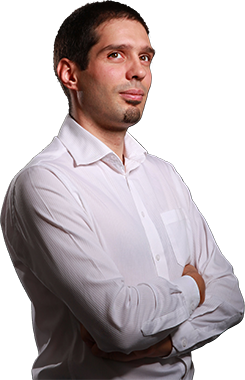
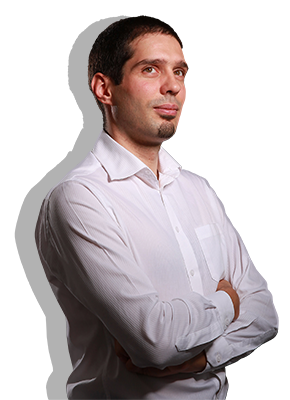
fix slider homepage

diff --git a/xebiaUI/elements/xuiShowcase/xuiShowcase.less b/xebiaUI/elements/xuiShowcase/xuiShowcase.less
@@ -2,16 +2,51 @@
 @import '../../styles/variables';
 
 .xuiShowcase{
+  background: url('../../../assets/images/home/background-paris-xebia-home.jpg');
+  height: 400px;
+
+  @media (max-width: @screen-phone) {
+    background-size: cover;
+    background-position: center center;
+    height: auto;
+    background-repeat: no-repeat;
+  }
+
+  @media (min-width: @screen-phone) and (max-width: @screen-tablet) {
+    background-size: cover;
+    background-position: center center;
+    height: auto;
+    background-repeat: no-repeat;
+  }
 
   .xuiShowcase-leftPanel {
-    padding: 30px 15px;
-    background-color: @xui-purple1;
+    padding: 40px 130px 40px 10px;
+    background-color: @xui-purple1-opacity;
+    height: 400px;
+
+    @media (max-width: @screen-phone) {
+      padding: 30px 15px;
+      height: auto;
+    }
+
+    @media (min-width: @screen-phone) and (max-width: @screen-tablet) {
+      padding: 60px 15px;
+      height: auto;
+    }
+
+    @media (max-width: 1200px) and (min-width: @screen-desktop) {
+      padding: 40px 90px 40px 10px;
+    }
 
     .xuiShowcase-title {
       .xui-display1;
       text-transform: uppercase;
       line-height: initial;
-      margin-bottom: 5px;
+      margin-bottom: 20px;
+
+      @media (max-width: @screen-phone) {
+        margin-bottom: 0px;
+      }
     }
 
     .xuiShowcase-mainDescription {
@@ -25,7 +60,6 @@
   }
 
   .xuiShowcase-rightPanel{
-    background-color: @xui-purple1;
     color: white;
   }
 

diff --git a/app/pages/home/home.less b/app/pages/home/home.less
@@ -6,8 +6,20 @@
   .home-showcase {
 
     .xuiShowcase-rightPanel {
-      background: url('../../../assets/images/home/background-paris-xebia-home.jpg');
-      height: 230px;
+
+      @media (max-width: @screen-phone) {
+        height: 260px;
+      }
+
+      @media (min-width: @screen-phone) and (max-width: @screen-tablet) {
+        height: 400px;
+      }
+
+      @media (min-width: @screen-phone) and (max-width: @screen-tablet) {
+        height: auto;
+      }
+
+
 
       .home-carousel {
 
@@ -32,16 +44,31 @@
           overflow: visible;
 
           .home-carousel-img {
-            height: 250px;
             position: relative;
-            top: -30px;
-            left: -30px;
+            left: -150px;
+
+            @media (max-width: @screen-phone) {
+              height: 290px;
+              left: -90px;
+              top: -30px;
+            }
+
+            @media (min-width: @screen-phone) and (max-width: @screen-tablet) {
+              height: 290px;
+              top: 35px;
+              left: 0px;
+            }
+
+            @media (min-width: @screen-tablet) and (max-width: @screen-desktop) {
+              height: 360px;
+              top: 40px;
+            }
           }
           
           .home-carousel-content{
             position: absolute;
             top:0;
-            left: 150px;
+            left: 110px;
             padding: 30px 0;
             .xui-body1;
             color: white;

diff --git a/app/app.constants.js b/app/app.constants.js
@@ -10,5 +10,8 @@ export const alliance = [
 
 export const homeXebians = [
   {firstName: 'Pablo', lastName: 'Lopez', job: 'CTO chez Xebia', imageUrl: '/assets/images/home/pablo-lopez.png'},
-  {firstName: 'Pablo2', lastName: 'Lopez2', job: 'CTO chez Xebia', imageUrl: '/assets/images/home/pablo-lopez.png'}
+  {firstName: 'Julien', lastName: 'Smadja', job: 'Manager chez Xebia', imageUrl: '/assets/images/home/julien-smadja.png'},
+  {firstName: 'Benjamin', lastName: 'Moitié', job: 'Coach Agile chez Xebia', imageUrl: '/assets/images/home/benjamin-moitie.png'},
+  {firstName: 'Philippe', lastName: 'Antoine', job: 'Scrum Master chez Xebia', imageUrl: '/assets/images/home/philippe-antoine.png'},
+  {firstName: 'Hugo', lastName: 'Geissmann', job: 'Président chez Thiga', imageUrl: '/assets/images/home/hugo-geissmann.png'}
 ];

diff --git a/xebiaUI/elements/xuiShowcase/xuiShowcase.tpl.html b/xebiaUI/elements/xuiShowcase/xuiShowcase.tpl.html
@@ -1,11 +1,11 @@
 <div class="xuiShowcase row">
-    <div class="xuiShowcase-leftPanel col-xs-12 col-md-6">
+    <div class="xuiShowcase-leftPanel col-xs-12 col-sm-6 col-md-4">
         <div class="xuiShowcase-title">{{$ctrl.title}}</div>
         <div class="xuiShowcase-mainDescription">{{$ctrl.mainDescription}}</div>
         <div class="xuiShowcase-subDescription">{{$ctrl.subDescription}}</div>
     </div>
 
-    <div class="xuiShowcase-rightPanel col-xs-12 col-md-6">
+    <div class="xuiShowcase-rightPanel col-xs-12 col-sm-6 col-md-8">
         <ng-transclude></ng-transclude>
     </div>
 </div>

diff --git a/xebiaUI/styles/variables.less b/xebiaUI/styles/variables.less
@@ -27,6 +27,7 @@
 /*           Colors             */
 /********************************/
 @xui-purple1: #6a205f;
+@xui-purple1-opacity: rgba(106, 32, 95, 0.7);
 @xui-cyan1: #06a99c;
 @xui-light-grey: #e6e6e6;
 @xui-medium-grey: #666666;
